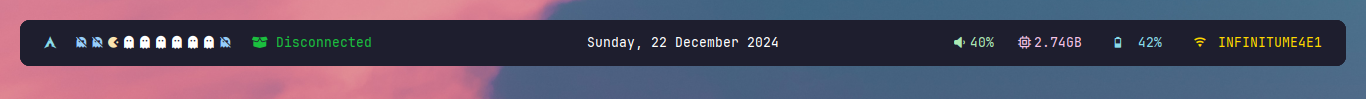
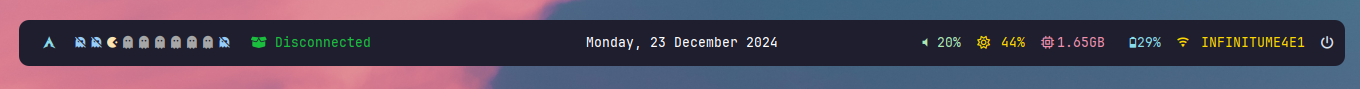
update README.md and update screenshots

diff --git a/README.md b/README.md
@@ -7,19 +7,21 @@ This repository has been designed with the purpose of being able to set up a lig
 **Table of content**
 
 * [Installation](#installation)
+* [Muanal Installation](#manual-installation)
 * [Screenshots](#screenshots)
 * [keybinds](#keybinds)
 
 
 ## Installation
 
-First we need to give run permissions to the _install.sh_ file and make sure you have the following packages installed on your system: [packages](#manual-installation)
+First we need to give run permissions to the _install.sh_ file and execute. 
 
 ```bash
-chmod +x install.sh
+git clone https://github.com/GownKydo/dotfiles.git
+chmod +x install.sh &&./install.sh
 ```
 
-After this we will execute the file and wait for the configuration to be done.
+After this we will execute the file and reboot the system.
 
 ## Manual Installation
 
@@ -51,15 +53,14 @@ bspwm sxhkd polybar rofi i3lock amixer zsh brightnessctl feh picom neofetch cows
 
 ### Terminal
 
-**neofetch, ranger, cowsay and nvchad**
+**neofetch, ranger, cowsay with lolcat and nvchad**
 
-![terminal](/screenshots/terminal.png)
-
+![terminal](/screenshots/desktop.png)
 
 
 ### Polybar
 
-The blue color in the polybar indicates that the window is occupied by some application, the white color indicates that it's empty and the pacman indicates in which window we are.
+The blue color in the polybar indicates that the window is occupied by some application, the gray color indicates that it's empty and the pacman indicates in which window we are.
 
 ![polybar1](/screenshots/polybar1.png)
 
@@ -85,6 +86,7 @@ The blue color in the polybar indicates that the window is occupied by some appl
 
 | **keybinds**  | **application** | 
 |-|-|
+| super + d | rofi
 | super + shift + b | brave-browser |
 | super + shift + m | telegram desktop |
 | Print | flameshot gui | 
